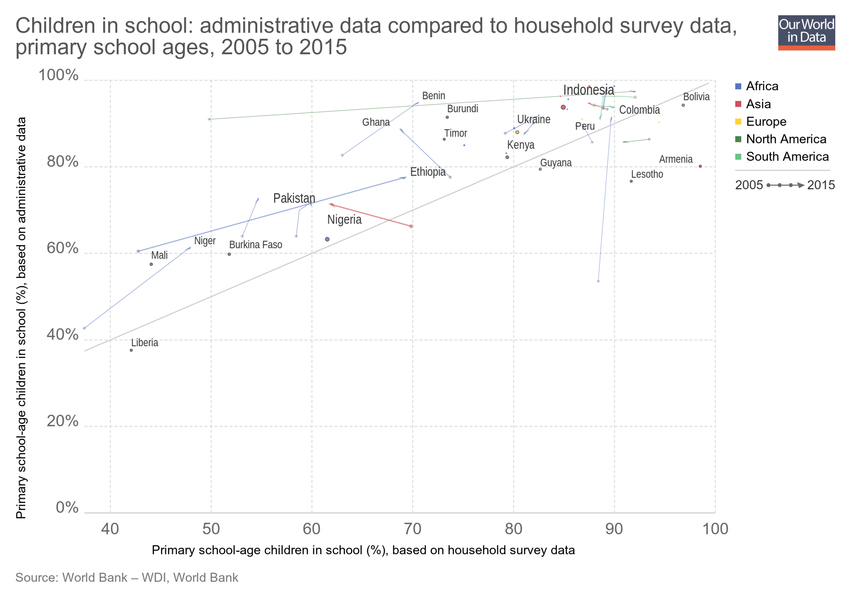
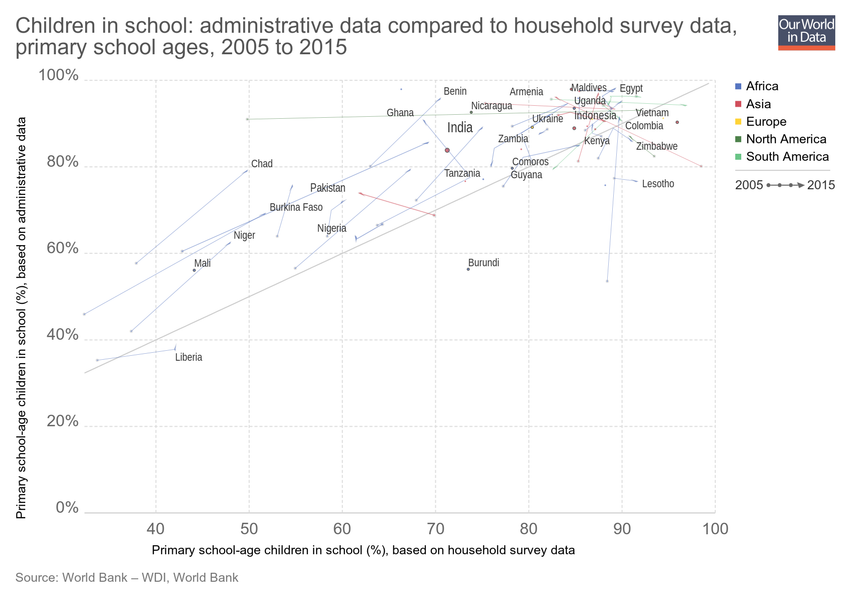
Updating chart children-in-school-administrative-data-compared-to-household-survey-data-primary-school-ages

diff --git a/grapher/children-in-school-administrative-data-compared-to-household-survey-data-primary-school-ages.html b/grapher/children-in-school-administrative-data-compared-to-household-survey-data-primary-school-ages.html
@@ -1,4 +1,4 @@
-<!doctype html><html><head><meta name="viewport" content="width=device-width, initial-scale=1" /><title>Children in school: administrative data compared to household survey data, primary school ages - Our World in Data</title><meta name="description" content="An interactive visualization from Our World in Data." /><link rel="canonical" href="https://ourworldindata.org/grapher/children-in-school-administrative-data-compared-to-household-survey-data-primary-school-ages" /><meta property="fb:app_id" content="1149943818390250" /><meta property="og:url" content="https://ourworldindata.org/grapher/children-in-school-administrative-data-compared-to-household-survey-data-primary-school-ages" /><meta property="og:title" content="Children in school: administrative data compared to household survey data, primary school ages" /><meta property="og:description" content="An interactive visualization from Our World in Data." /><meta property="og:image" content="https://ourworldindata.org/grapher/exports/children-in-school-administrative-data-compared-to-household-survey-data-primary-school-ages.png?v=1" /><meta property="og:image:width" content="850" /><meta property="og:image:height" content="600" /><meta property="og:site_name" content="Our World in Data" /><meta name="twitter:card" content="summary_large_image" /><meta name="twitter:site" content="@OurWorldInData" /><meta name="twitter:creator" content="@OurWorldInData" /><meta name="twitter:title" content="Children in school: administrative data compared to household survey data, primary school ages" /><meta name="twitter:description" content="An interactive visualization from Our World in Data." /><meta name="twitter:image" content="https://ourworldindata.org/grapher/exports/children-in-school-administrative-data-compared-to-household-survey-data-primary-school-ages.png?v=1" /><style>
+<!doctype html><html><head><meta name="viewport" content="width=device-width, initial-scale=1" /><title>Children in school: administrative data compared to household survey data, primary school ages - Our World in Data</title><meta name="description" content="An interactive visualization from Our World in Data." /><link rel="canonical" href="https://ourworldindata.org/grapher/children-in-school-administrative-data-compared-to-household-survey-data-primary-school-ages" /><meta property="fb:app_id" content="1149943818390250" /><meta property="og:url" content="https://ourworldindata.org/grapher/children-in-school-administrative-data-compared-to-household-survey-data-primary-school-ages" /><meta property="og:title" content="Children in school: administrative data compared to household survey data, primary school ages" /><meta property="og:description" content="An interactive visualization from Our World in Data." /><meta property="og:image" content="https://ourworldindata.org/grapher/exports/children-in-school-administrative-data-compared-to-household-survey-data-primary-school-ages.png?v=3" /><meta property="og:image:width" content="850" /><meta property="og:image:height" content="600" /><meta property="og:site_name" content="Our World in Data" /><meta name="twitter:card" content="summary_large_image" /><meta name="twitter:site" content="@OurWorldInData" /><meta name="twitter:creator" content="@OurWorldInData" /><meta name="twitter:title" content="Children in school: administrative data compared to household survey data, primary school ages" /><meta name="twitter:description" content="An interactive visualization from Our World in Data." /><meta name="twitter:image" content="https://ourworldindata.org/grapher/exports/children-in-school-administrative-data-compared-to-household-survey-data-primary-school-ages.png?v=3" /><style>
         html, body {
             height: 100%;
             margin: 0;
@@ -20,8 +20,8 @@
         }
     </style><noscript><style>
                     figure { display: none !important; }
-                </style></noscript><link rel="stylesheet" href="https://ourworldindata.org/grapher/assets/commons.bundle.aac21d725a915c387ab8.css" /><link rel="preload" href="/grapher/data/variables/3237+39567+72+123.json?v=1" as="fetch" crossorigin /></head><body class="singleChart"><figure data-grapher-src="/grapher/children-in-school-administrative-data-compared-to-household-survey-data-primary-school-ages"></figure><noscript id="fallback"><img src="/grapher/exports/children-in-school-administrative-data-compared-to-household-survey-data-primary-school-ages.svg" /><p>Interactive visualization requires JavaScript</p></noscript><script src="https://cdn.polyfill.io/v2/polyfill.min.js?features=es6,fetch"></script><script src="https://ourworldindata.org/grapher/assets/commons.bundle.aac21d725a915c387ab8.js"></script><script src="https://ourworldindata.org/grapher/assets/charts.bundle.aac21d725a915c387ab8.js"></script><script>
-        var jsonConfig = {"map":{"projection":"World","colorSchemeLabels":[],"colorSchemeValues":[],"customNumericColors":[],"customCategoryColors":{},"customCategoryLabels":{},"customHiddenCategories":{}},"tab":"chart","slug":"children-in-school-administrative-data-compared-to-household-survey-data-primary-school-ages","type":"ScatterPlot","title":"Children in school: administrative data compared to household survey data, primary school ages","xAxis":{"max":100,"scaleType":"linear"},"yAxis":{"max":100,"min":0,"scaleType":"linear"},"maxTime":2015,"minTime":2005,"version":1,"hasMapTab":false,"stackMode":"absolute","dimensions":[{"display":{"name":"Primary school-age children in school (%), based on administrative data"},"property":"y","variableId":3237},{"display":{"name":"Primary school-age children in school (%), based on household survey data "},"property":"x","variableId":39567},{"display":{},"property":"size","variableId":72},{"display":{},"property":"color","variableId":123}],"isAutoSlug":true,"hasChartTab":true,"isPublished":true,"selectedData":[],"comparisonLine":{},"id":2996};
+                </style></noscript><link rel="stylesheet" href="https://ourworldindata.org/grapher/assets/commons.bundle.aac21d725a915c387ab8.css" /><link rel="preload" href="/grapher/data/variables/3237+39567+72+123.json?v=3" as="fetch" crossorigin /></head><body class="singleChart"><figure data-grapher-src="/grapher/children-in-school-administrative-data-compared-to-household-survey-data-primary-school-ages"></figure><noscript id="fallback"><img src="/grapher/exports/children-in-school-administrative-data-compared-to-household-survey-data-primary-school-ages.svg" /><p>Interactive visualization requires JavaScript</p></noscript><script src="https://cdn.polyfill.io/v2/polyfill.min.js?features=es6,fetch"></script><script src="https://ourworldindata.org/grapher/assets/commons.bundle.aac21d725a915c387ab8.js"></script><script src="https://ourworldindata.org/grapher/assets/charts.bundle.aac21d725a915c387ab8.js"></script><script>
+        var jsonConfig = {"id":2996,"map":{"projection":"World","colorSchemeLabels":[],"colorSchemeValues":[],"customNumericColors":[],"customCategoryColors":{},"customCategoryLabels":{},"customHiddenCategories":{}},"tab":"chart","slug":"children-in-school-administrative-data-compared-to-household-survey-data-primary-school-ages","type":"ScatterPlot","title":"Children in school: administrative data compared to household survey data, primary school ages","xAxis":{"max":100,"scaleType":"linear"},"yAxis":{"max":100,"min":0,"scaleType":"linear"},"maxTime":2015,"minTime":2005,"version":3,"hasMapTab":false,"stackMode":"absolute","dimensions":[{"display":{"name":"Primary school-age children in school (%), based on administrative data","tolerance":5},"property":"y","variableId":3237},{"display":{"name":"Primary school-age children in school (%), based on household survey data ","tolerance":5},"property":"x","variableId":39567},{"display":{},"property":"size","variableId":72},{"display":{},"property":"color","variableId":123}],"hasChartTab":true,"isPublished":true,"selectedData":[],"comparisonLine":{}};
         var figure = document.getElementsByTagName("figure")[0];
         try {
             window.App = {};
